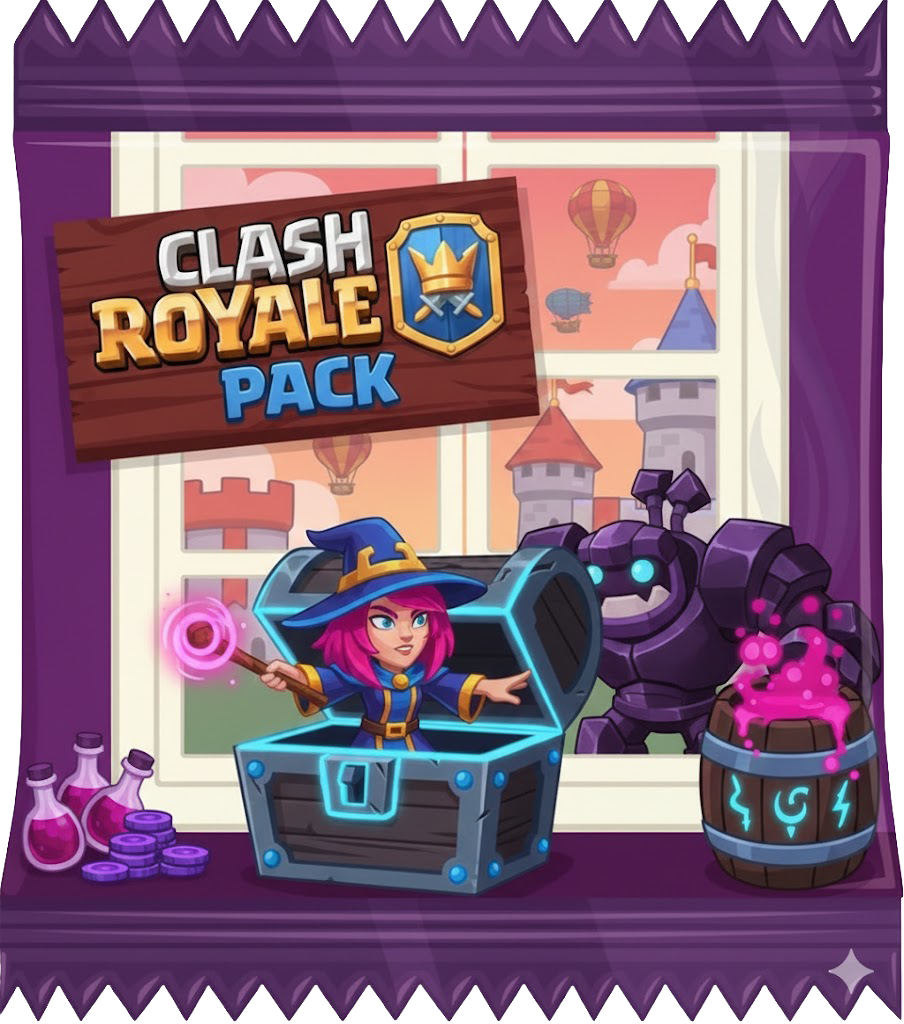
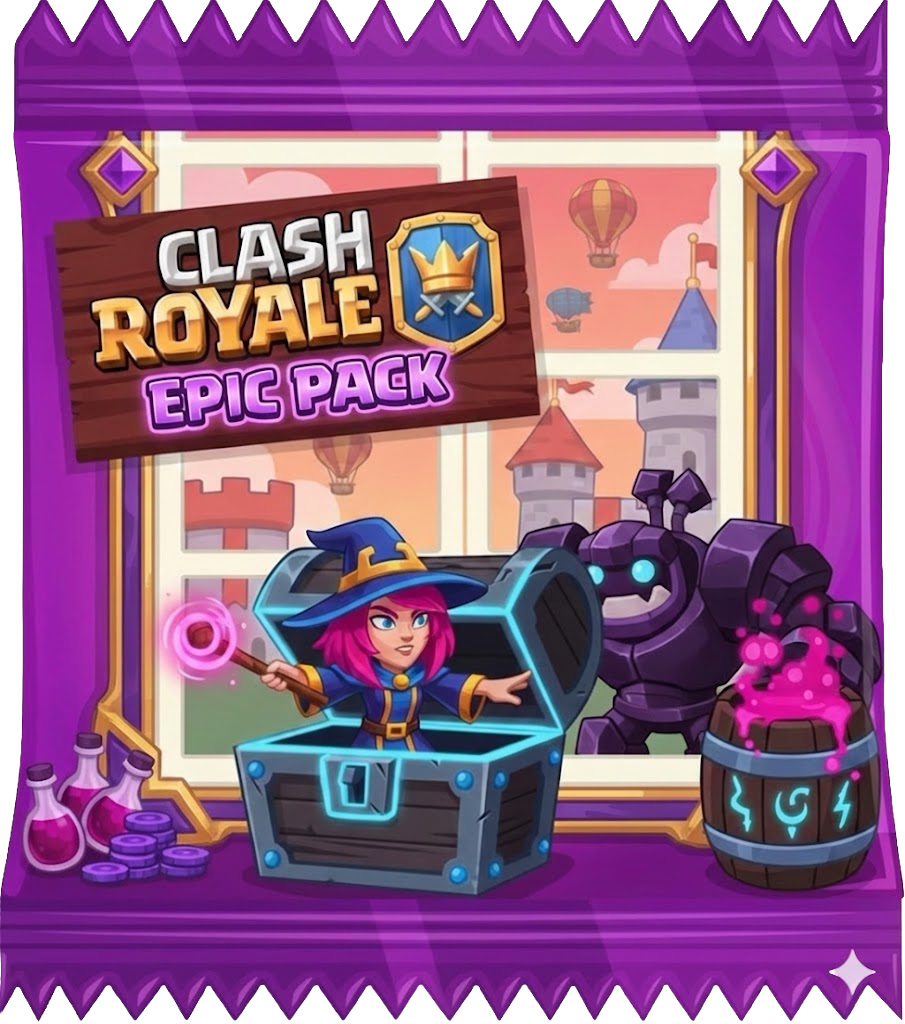
feat: add new image and finished clash royale market section

diff --git a/src/app/market/page.tsx b/src/app/market/page.tsx
@@ -24,14 +24,16 @@ export default function Market() {
           </Link>
         </div>
       </div>
-      <div className="w-full h-24 mt-20">
-        <div className="ml-24 w-[850px]">
+      <div className="w-full h-24 mt-24">
+        <div className="ml-24 w-[900px]">
           <h2 className="ml-2 mb-2">Clash Royale</h2>
           <Separator className="bg-white" />
         </div>
       </div>
-      <div className='ml-12'>
+      <div className='ml-38 flex gap-36'>
         <PackCard variant='common'></PackCard>
+        <PackCard variant='epic'></PackCard>
+        <PackCard variant='legendary'></PackCard>
       </div>
     </div>
   );

diff --git a/src/features/market/PackCard.tsx b/src/features/market/PackCard.tsx
@@ -23,7 +23,7 @@ export const PackCard: React.FC<SkinCardProps> = ({ variant }) => {
     },
     legendary: {
       gradient: 'radial-gradient(circle at center 35%, #F1F1F9 0%, #FF9E00 100%',
-      imageSrc: '',
+      imageSrc: '/packs/clashRoyale/legendary.png',
       price: 500,
     },
   };
